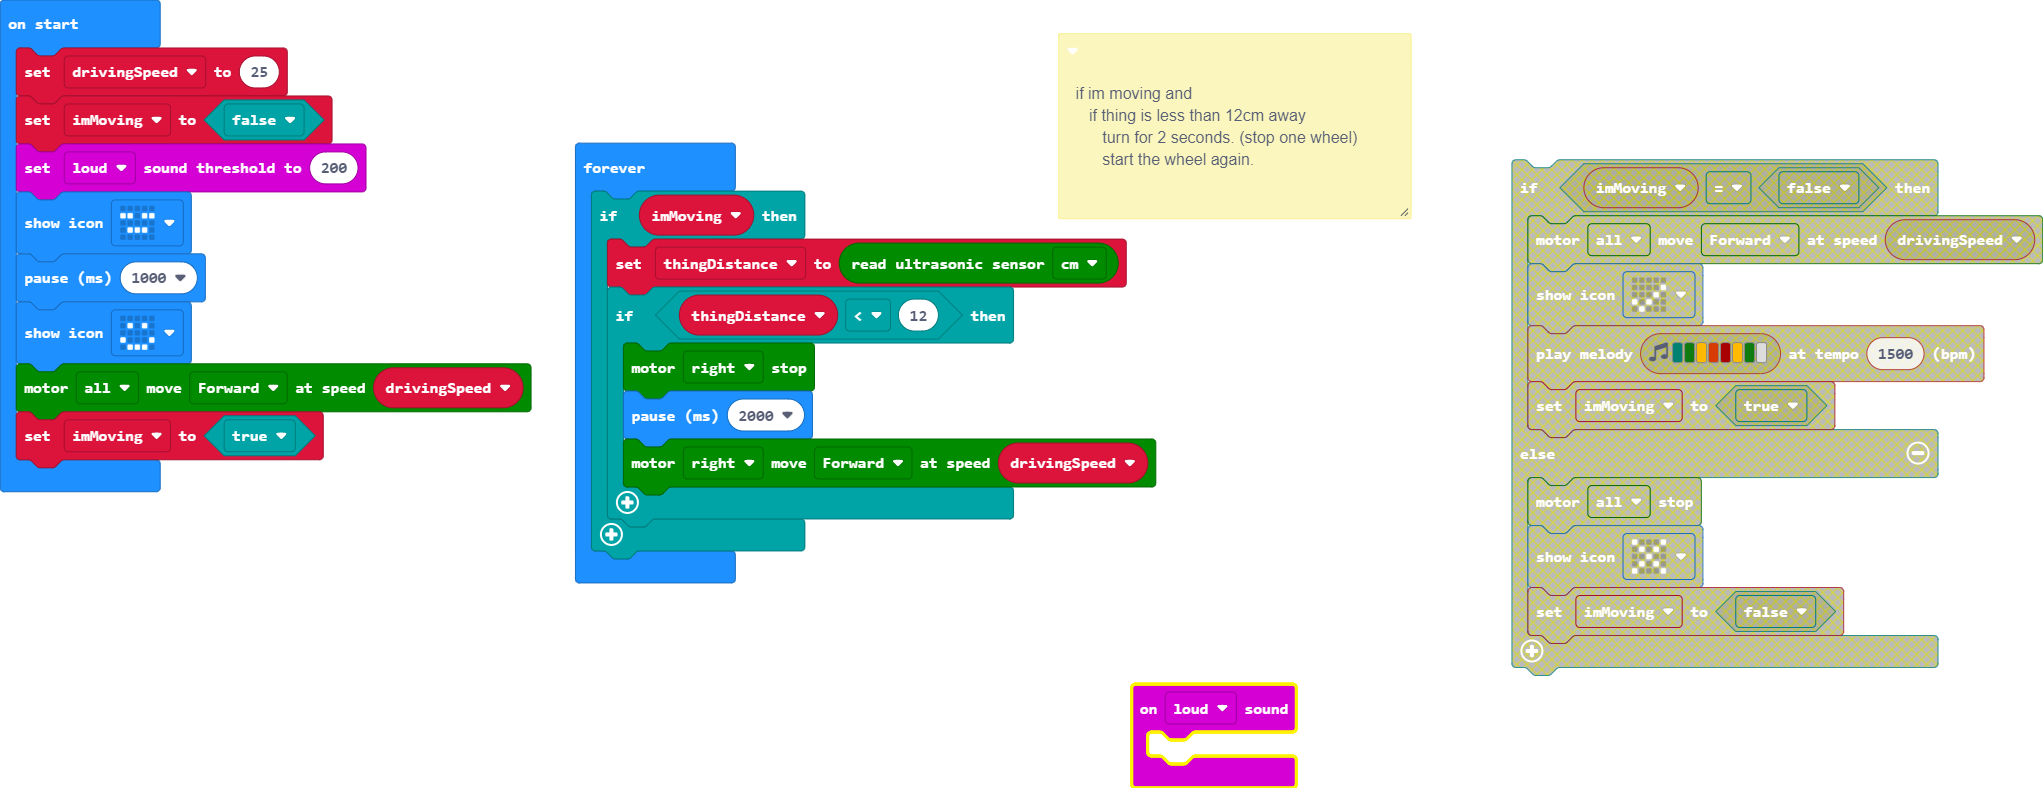
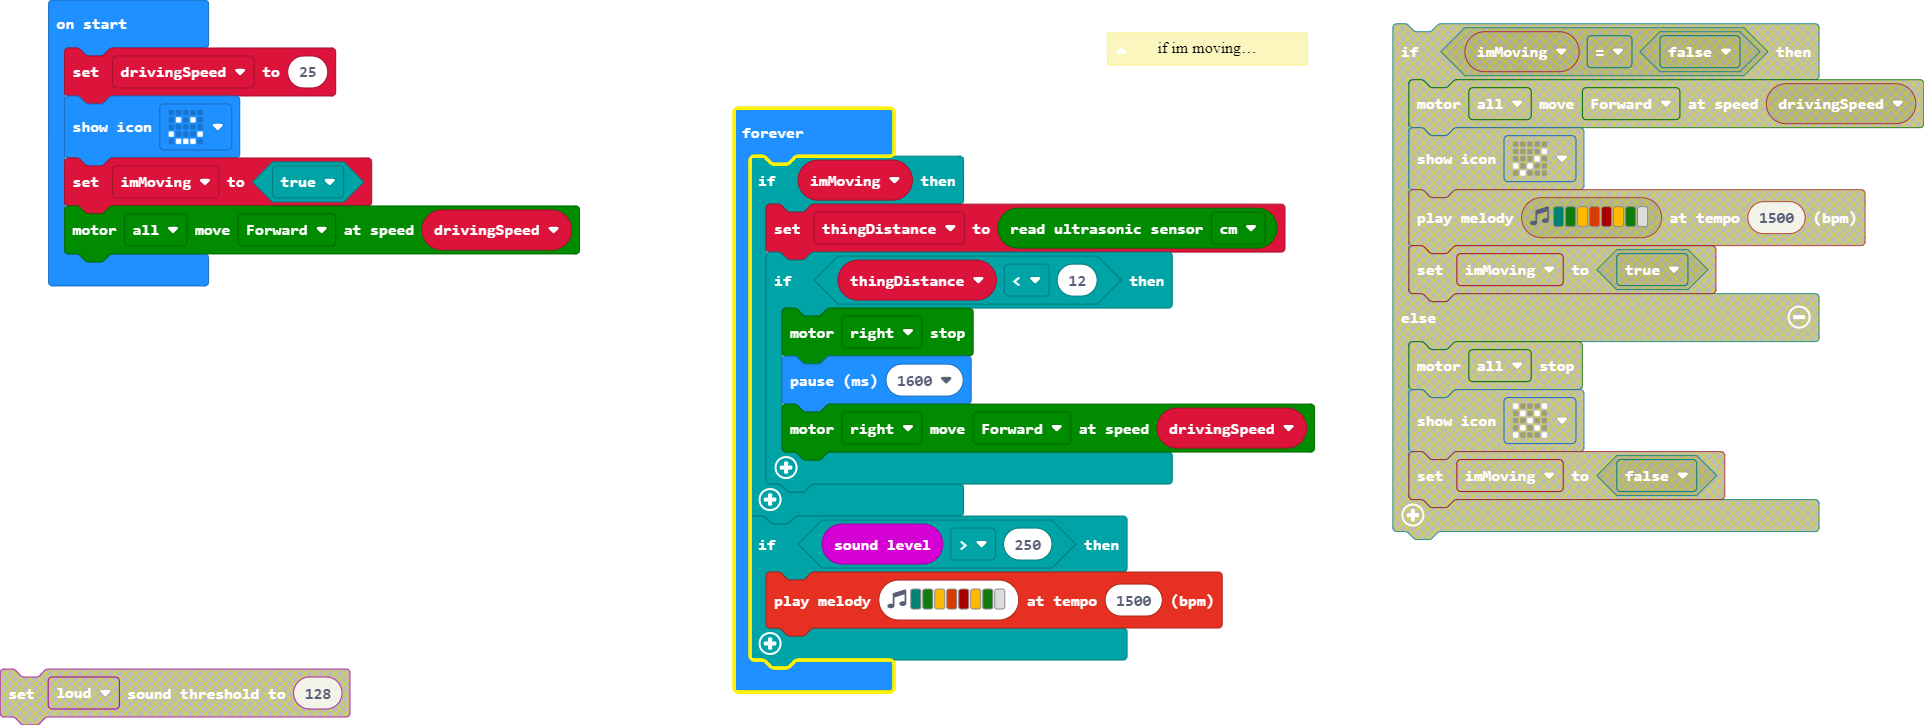
trying to listen for sound

diff --git a/main.ts b/main.ts
@@ -1,15 +1,8 @@
-input.onSound(DetectedSound.Loud, function () {
-	
-})
 let thingDistance = 0
 let drivingSpeed = 25
-let imMoving = false
-input.setSoundThreshold(SoundThreshold.Loud, 200)
-basic.showIcon(IconNames.Asleep)
-basic.pause(1000)
 basic.showIcon(IconNames.Happy)
+let imMoving = true
 maqueen.motorRun(maqueen.Motors.All, maqueen.Dir.CW, drivingSpeed)
-imMoving = true
 /**
  * if im moving and
  * 
@@ -24,8 +17,11 @@ basic.forever(function () {
         thingDistance = maqueen.Ultrasonic(PingUnit.Centimeters)
         if (thingDistance < 12) {
             maqueen.motorStop(maqueen.Motors.M2)
-            basic.pause(2000)
+            basic.pause(1600)
             maqueen.motorRun(maqueen.Motors.M2, maqueen.Dir.CW, drivingSpeed)
         }
+    }
+    if (input.soundLevel() > 250) {
+        music.playMelody("F G A B C5 A G - ", 1500)
     }
 })
